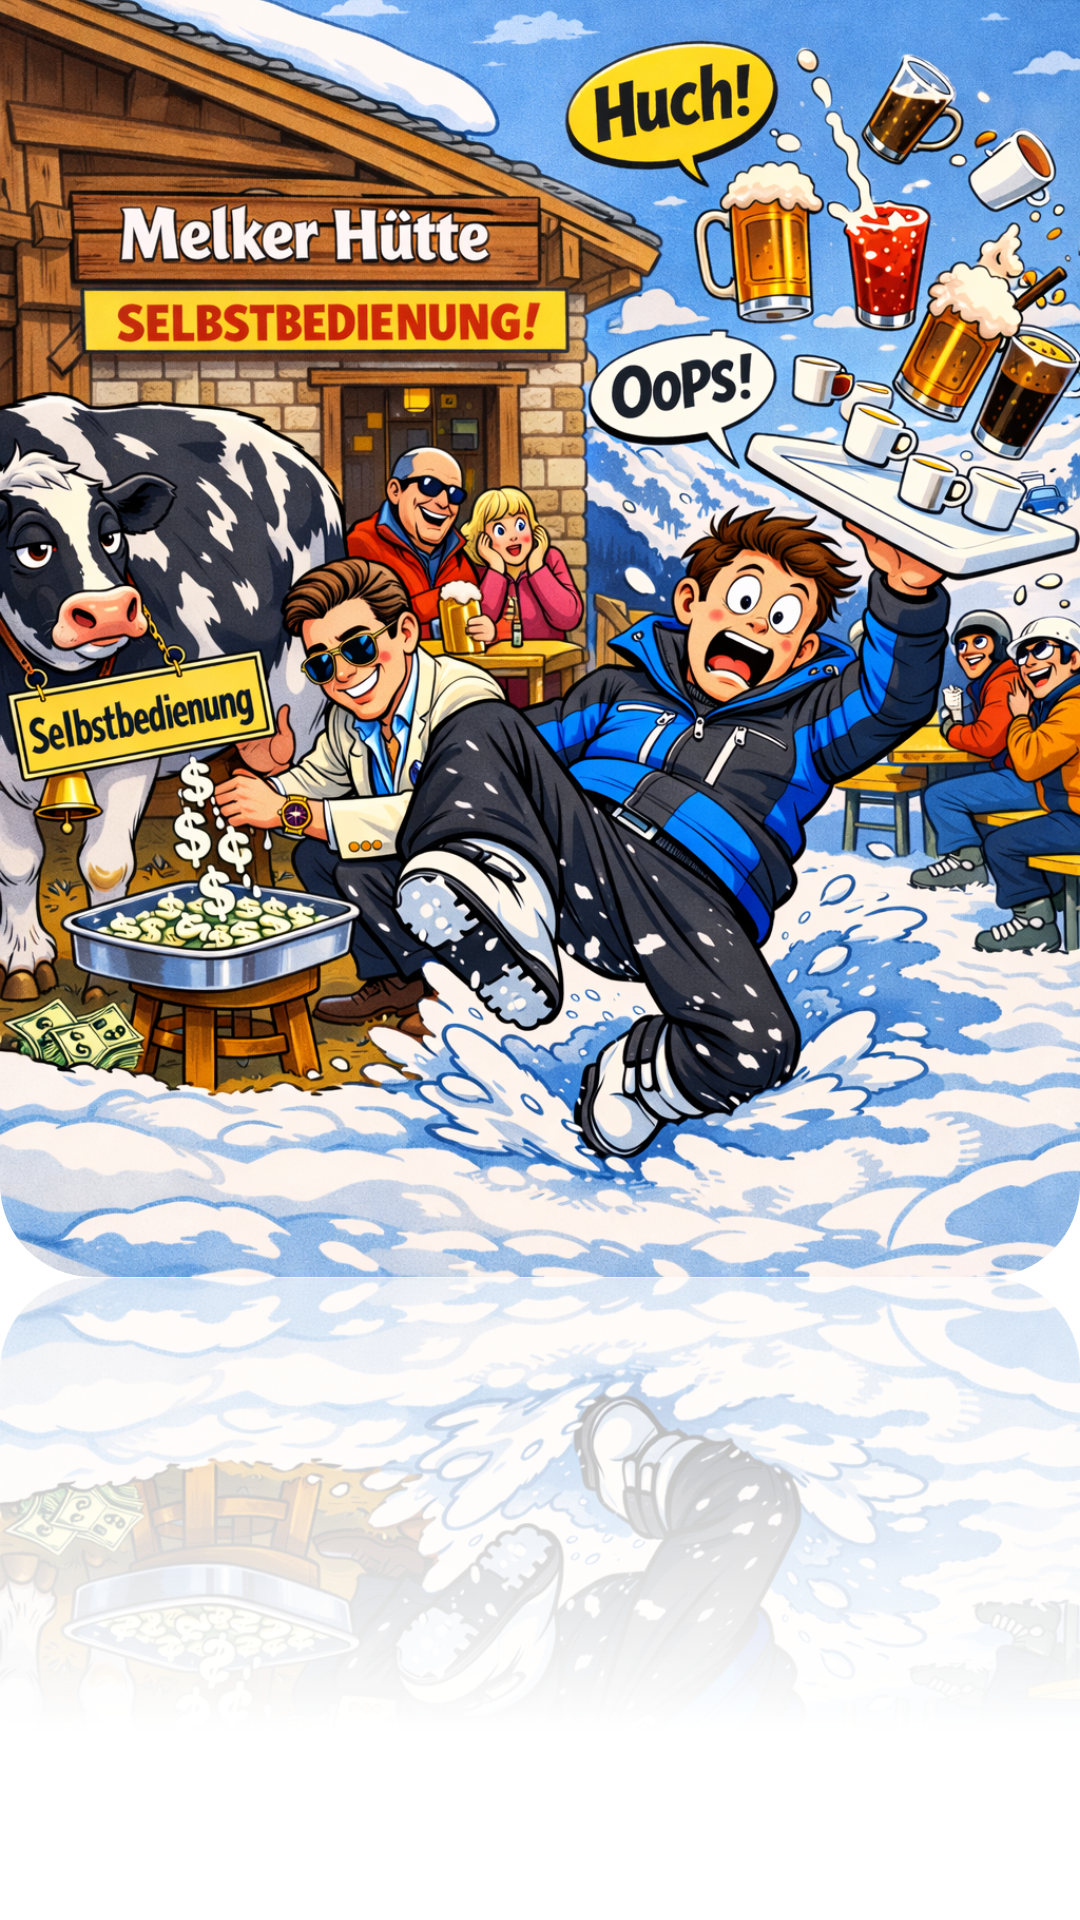
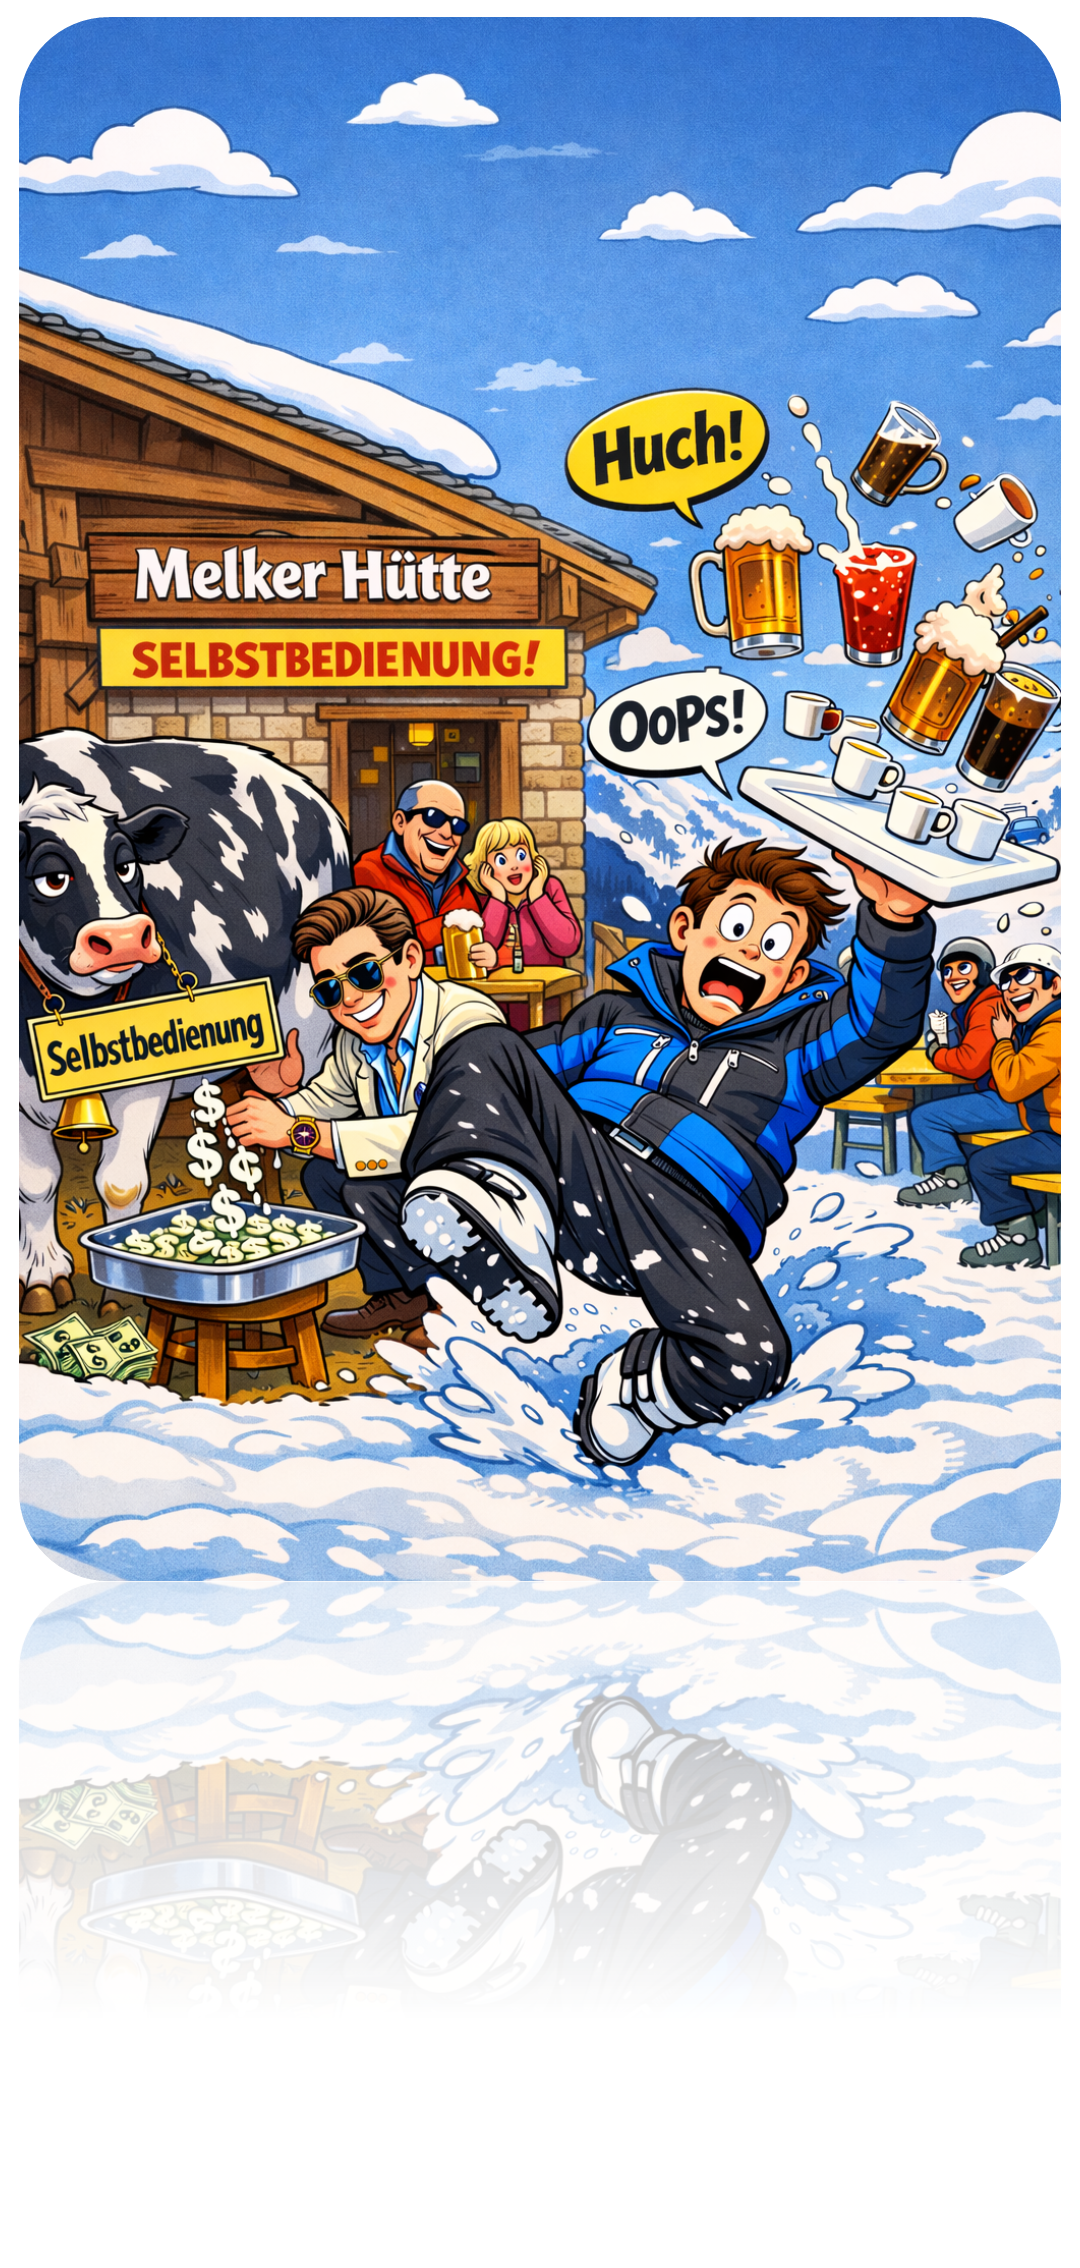
feat: Update welcome image to V2 and add soft white edge gradients
Replace welcome image with WelcomeScreenV2.png (9:19.5 format).
Add expo-linear-gradient with white fade overlays on all 4 edges
for a soft vignette effect. Background color changed to white.

diff --git a/src/screens/WelcomeScreen.tsx b/src/screens/WelcomeScreen.tsx
@@ -6,8 +6,8 @@ import {
   StyleSheet,
   TouchableOpacity,
   Animated,
-  Dimensions,
 } from 'react-native';
+import { LinearGradient } from 'expo-linear-gradient';
 import { useNavigation } from '@react-navigation/native';
 import type { NativeStackNavigationProp } from '@react-navigation/native-stack';
 import { RootStackParamList } from '../navigation/RootNavigator';
@@ -37,6 +37,29 @@ export default function WelcomeScreen() {
         style={styles.backgroundImage}
         resizeMode="cover"
       />
+
+      {/* Soft white edges */}
+      <LinearGradient
+        colors={['#FFFFFF', 'transparent']}
+        style={styles.edgeTop}
+      />
+      <LinearGradient
+        colors={['transparent', '#FFFFFF']}
+        style={styles.edgeBottom}
+      />
+      <LinearGradient
+        colors={['#FFFFFF', 'transparent']}
+        start={{ x: 0, y: 0 }}
+        end={{ x: 1, y: 0 }}
+        style={styles.edgeLeft}
+      />
+      <LinearGradient
+        colors={['transparent', '#FFFFFF']}
+        start={{ x: 0, y: 0 }}
+        end={{ x: 1, y: 0 }}
+        style={styles.edgeRight}
+      />
+
       <Animated.View style={[styles.buttonContainer, { opacity: fadeAnim }]}>
         <TouchableOpacity
           style={styles.button}
@@ -51,17 +74,43 @@ export default function WelcomeScreen() {
   );
 }
 
-const { width } = Dimensions.get('window');
-
 const styles = StyleSheet.create({
   container: {
     flex: 1,
-    backgroundColor: '#000',
+    backgroundColor: '#FFFFFF',
   },
   backgroundImage: {
     ...StyleSheet.absoluteFillObject,
     width: '100%',
     height: '100%',
+  },
+  edgeTop: {
+    position: 'absolute',
+    top: 0,
+    left: 0,
+    right: 0,
+    height: 80,
+  },
+  edgeBottom: {
+    position: 'absolute',
+    bottom: 0,
+    left: 0,
+    right: 0,
+    height: 80,
+  },
+  edgeLeft: {
+    position: 'absolute',
+    top: 0,
+    bottom: 0,
+    left: 0,
+    width: 40,
+  },
+  edgeRight: {
+    position: 'absolute',
+    top: 0,
+    bottom: 0,
+    right: 0,
+    width: 40,
   },
   buttonContainer: {
     position: 'absolute',
